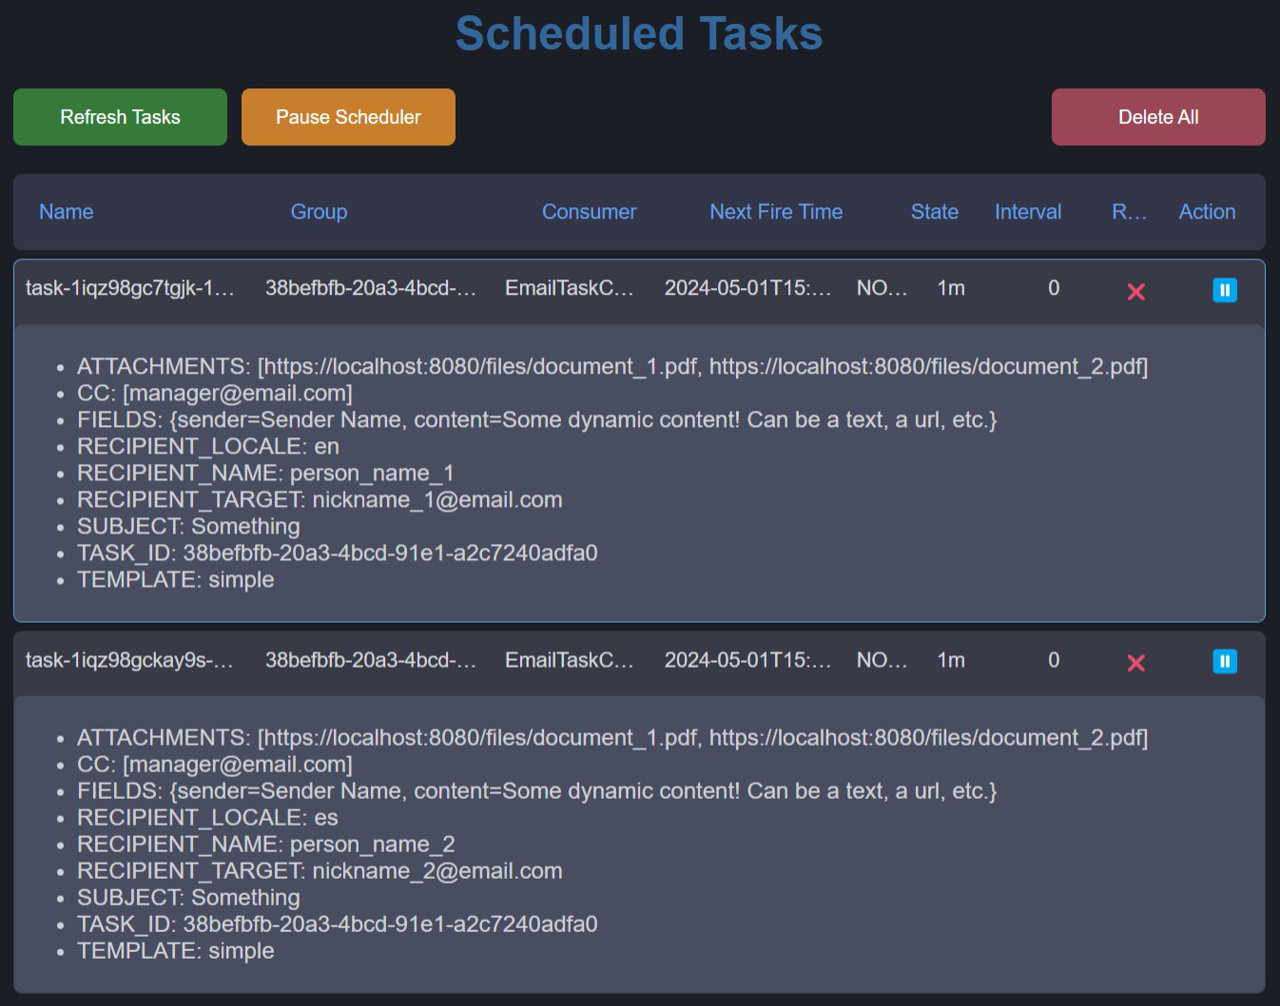
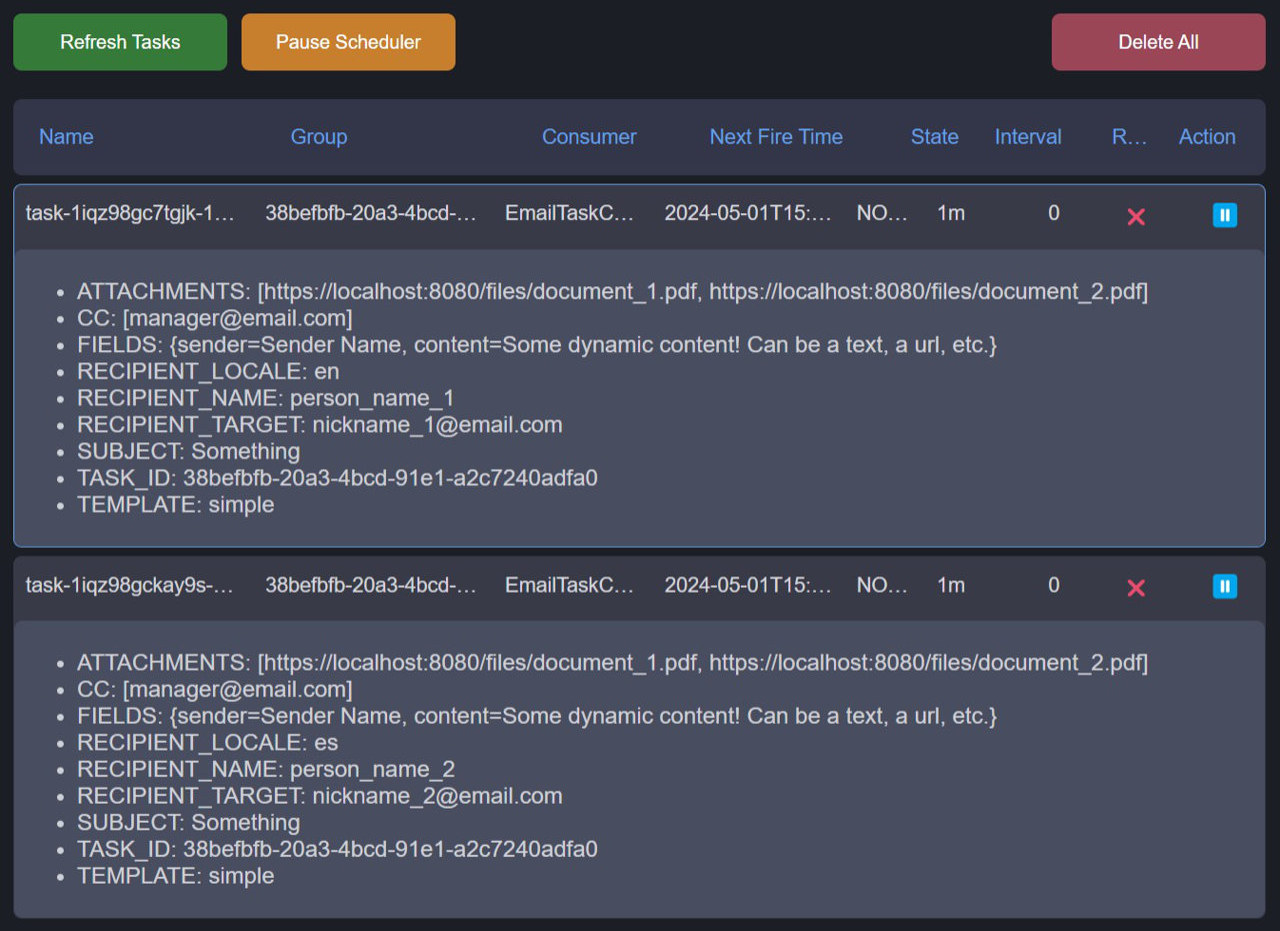
Cleanup

diff --git a/ktask-base/src/main/resources/templates/scheduler-dashboard.html b/ktask-base/src/main/resources/templates/scheduler-dashboard.html
@@ -147,9 +147,6 @@
     </style>
 </head>
 <body>
-<div>
-    <h1>Scheduled Tasks</h1>
-</div>
 <div class="buttons-container">
     <div class="left-buttons">
         <button class="refresh" onclick="refreshPage()">Refresh Tasks</button>
